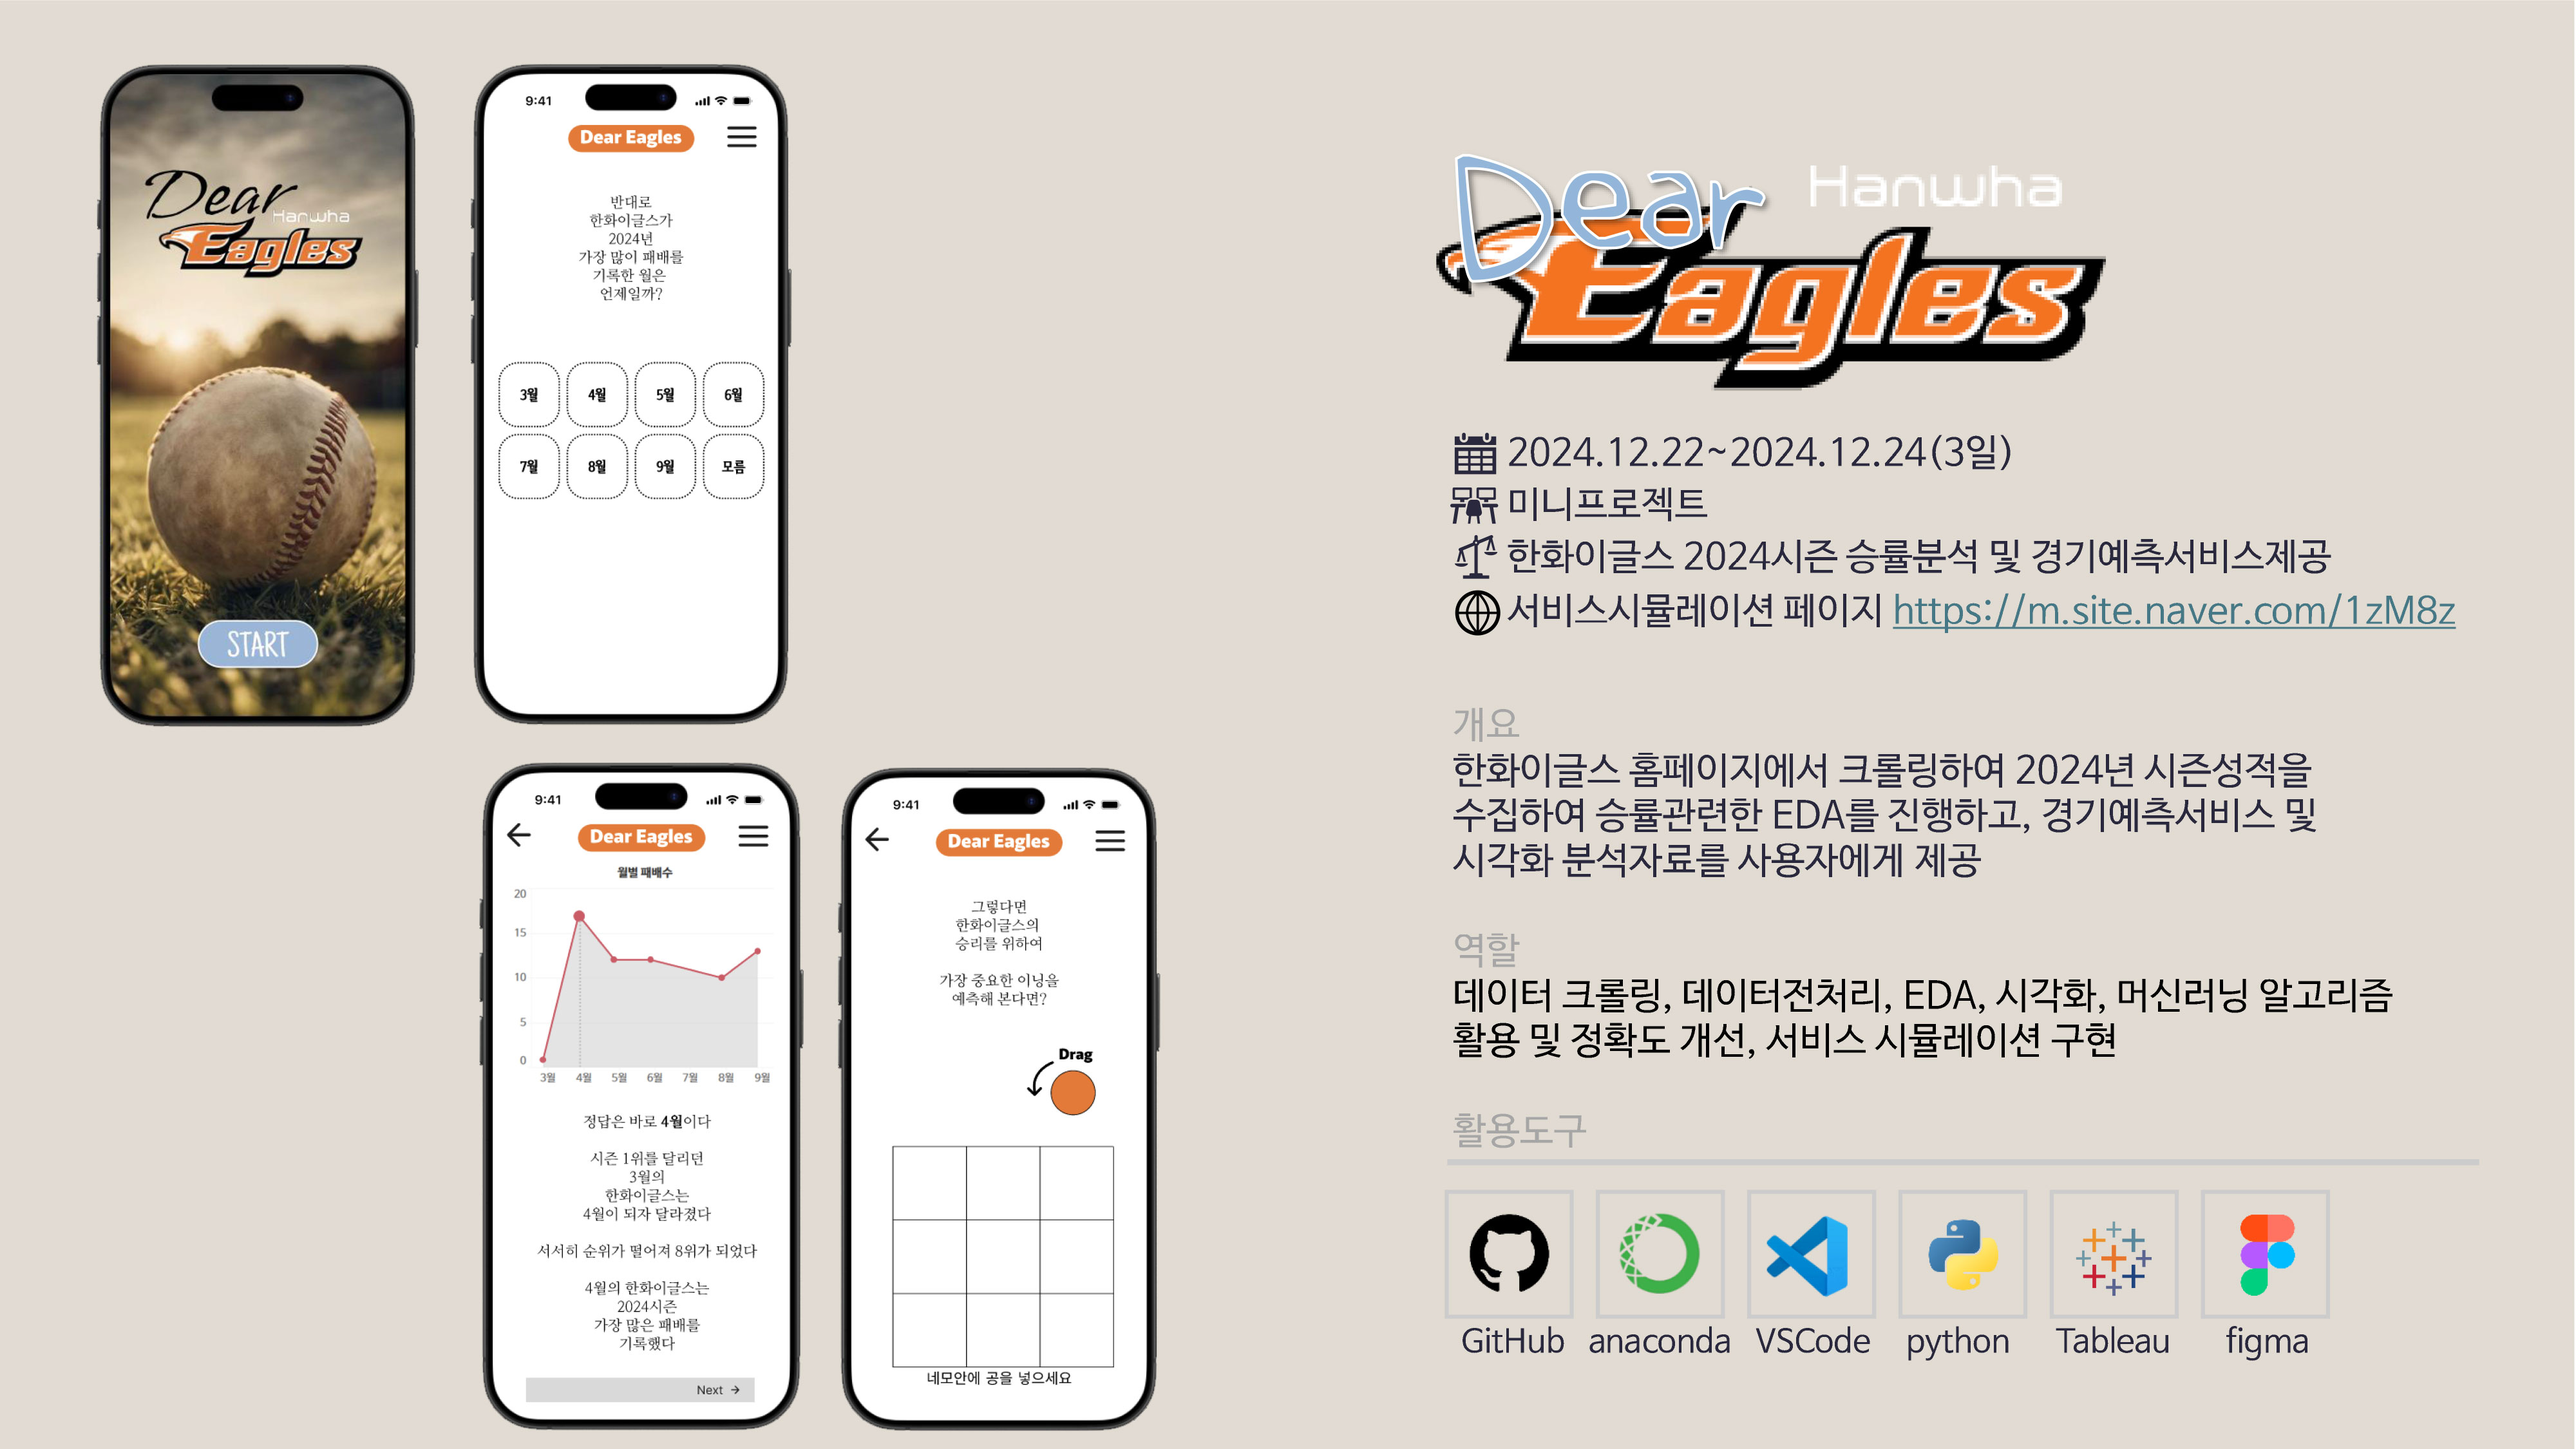
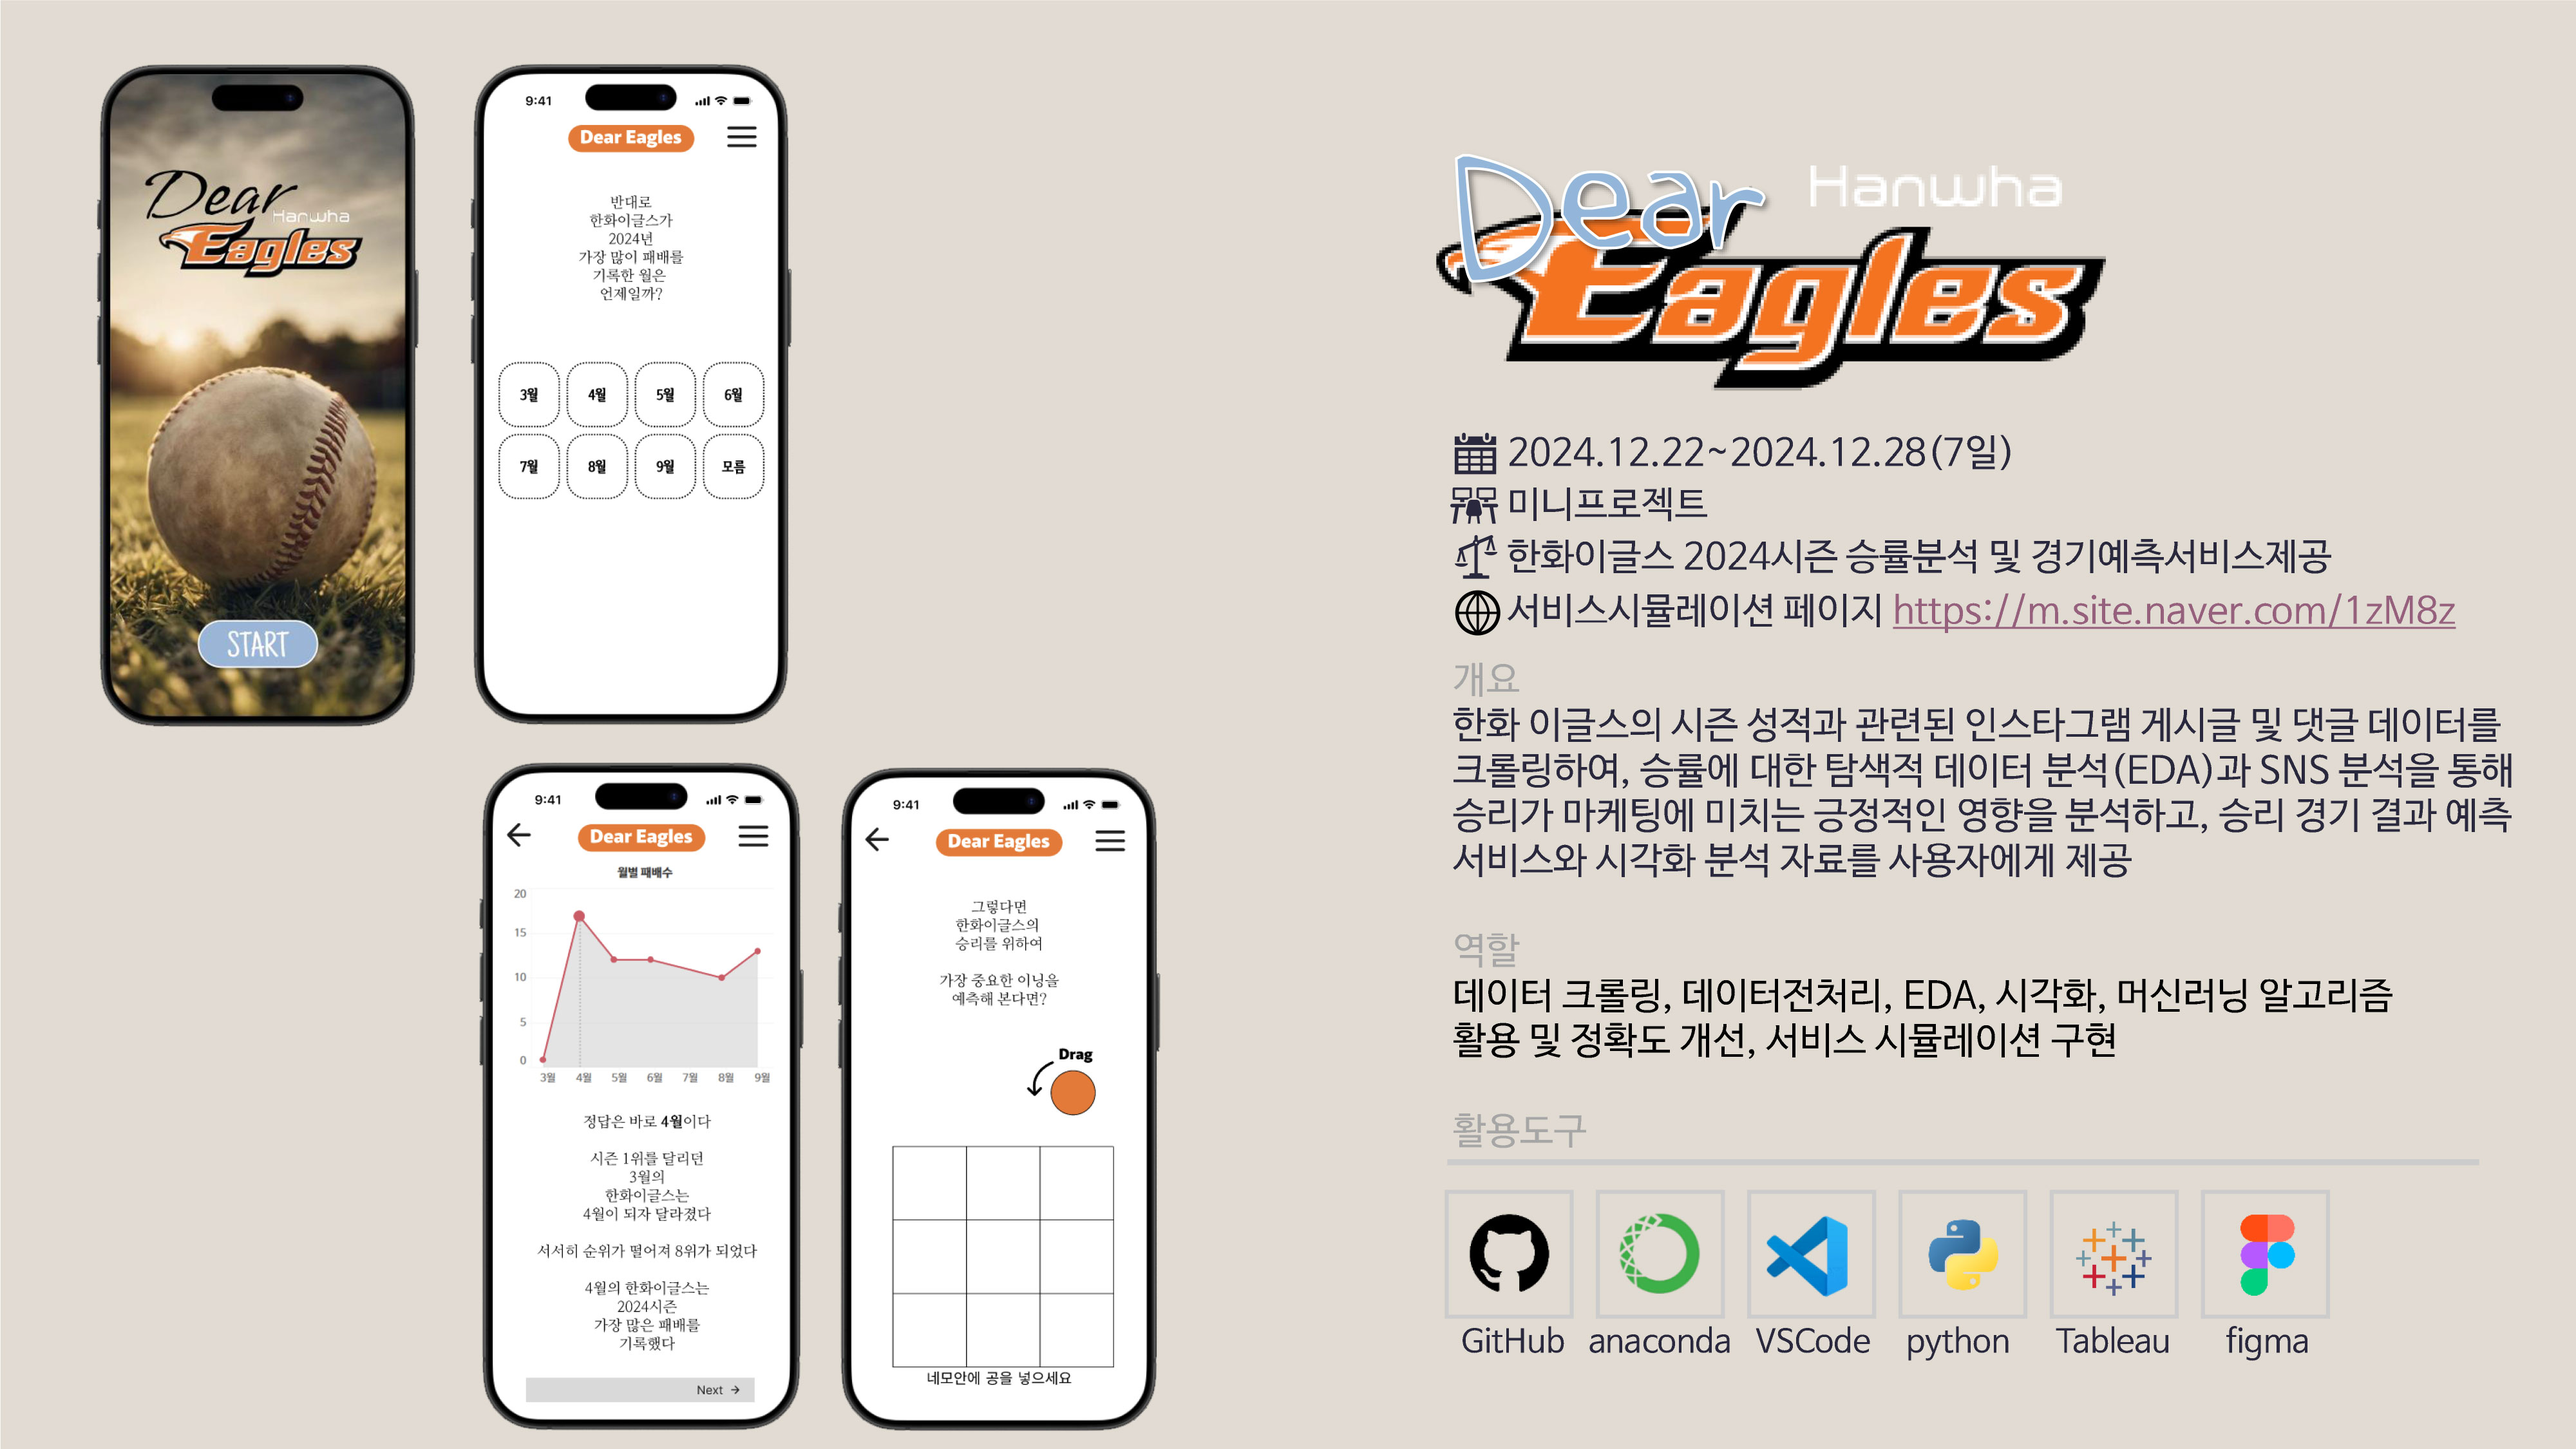
update

Changed region(s): [[0.5625, 0.4667, 0.9688, 0.6222], [0.7188, 0.4044, 0.9688, 0.4356]]

diff --git a/_posts/2020-02-28-sample-markdown.md b/_posts/2020-02-28-sample-markdown.md
@@ -6,8 +6,8 @@ tags: [한화이글스, 머신러닝, 승률, tableau, figma]
 ---
 
 {: .box-success}
-한화이글스 홈페이지에서 2024년 시즌성적을 크롤링하여 데이터를 수집하고,
-승률관련한 EDA를 진행하여 경기예측서비스 및 시각화 분석자료를 사용자에게 제공
+한화 이글스의 시즌 성적과 관련된 인스타그램 게시글 및 댓글 데이터를 크롤링하여, 승률에 대한 탐색적 데이터 분석(EDA)과 SNS 분석을 통해 승리가 마케팅에 미치는 긍정적인 영향을 분석하고, 승리 경기 결과 예측 서비스와 시각화 분석 자료를 사용자에게 제공
+
 
 {: .box-note}
 **서비스시뮬레이션 페이지 :** [Figma](https://m.site.naver.com/1zM8z)
@@ -15,6 +15,10 @@ tags: [한화이글스, 머신러닝, 승률, tableau, figma]
 ![이미지1]({{'assets/img/E1.jpg'| relative_url }})
 ![이미지2]({{'assets/img/E2.jpg'| relative_url }})
 ![이미지3]({{'assets/img/E3.jpg'| relative_url }})
+![이미지4]({{'assets/img/E4.jpg'| relative_url }})
+![이미지5]({{'assets/img/E5.jpg'| relative_url }})
+![이미지6]({{'assets/img/E6.jpg'| relative_url }})
+
 
 
 
